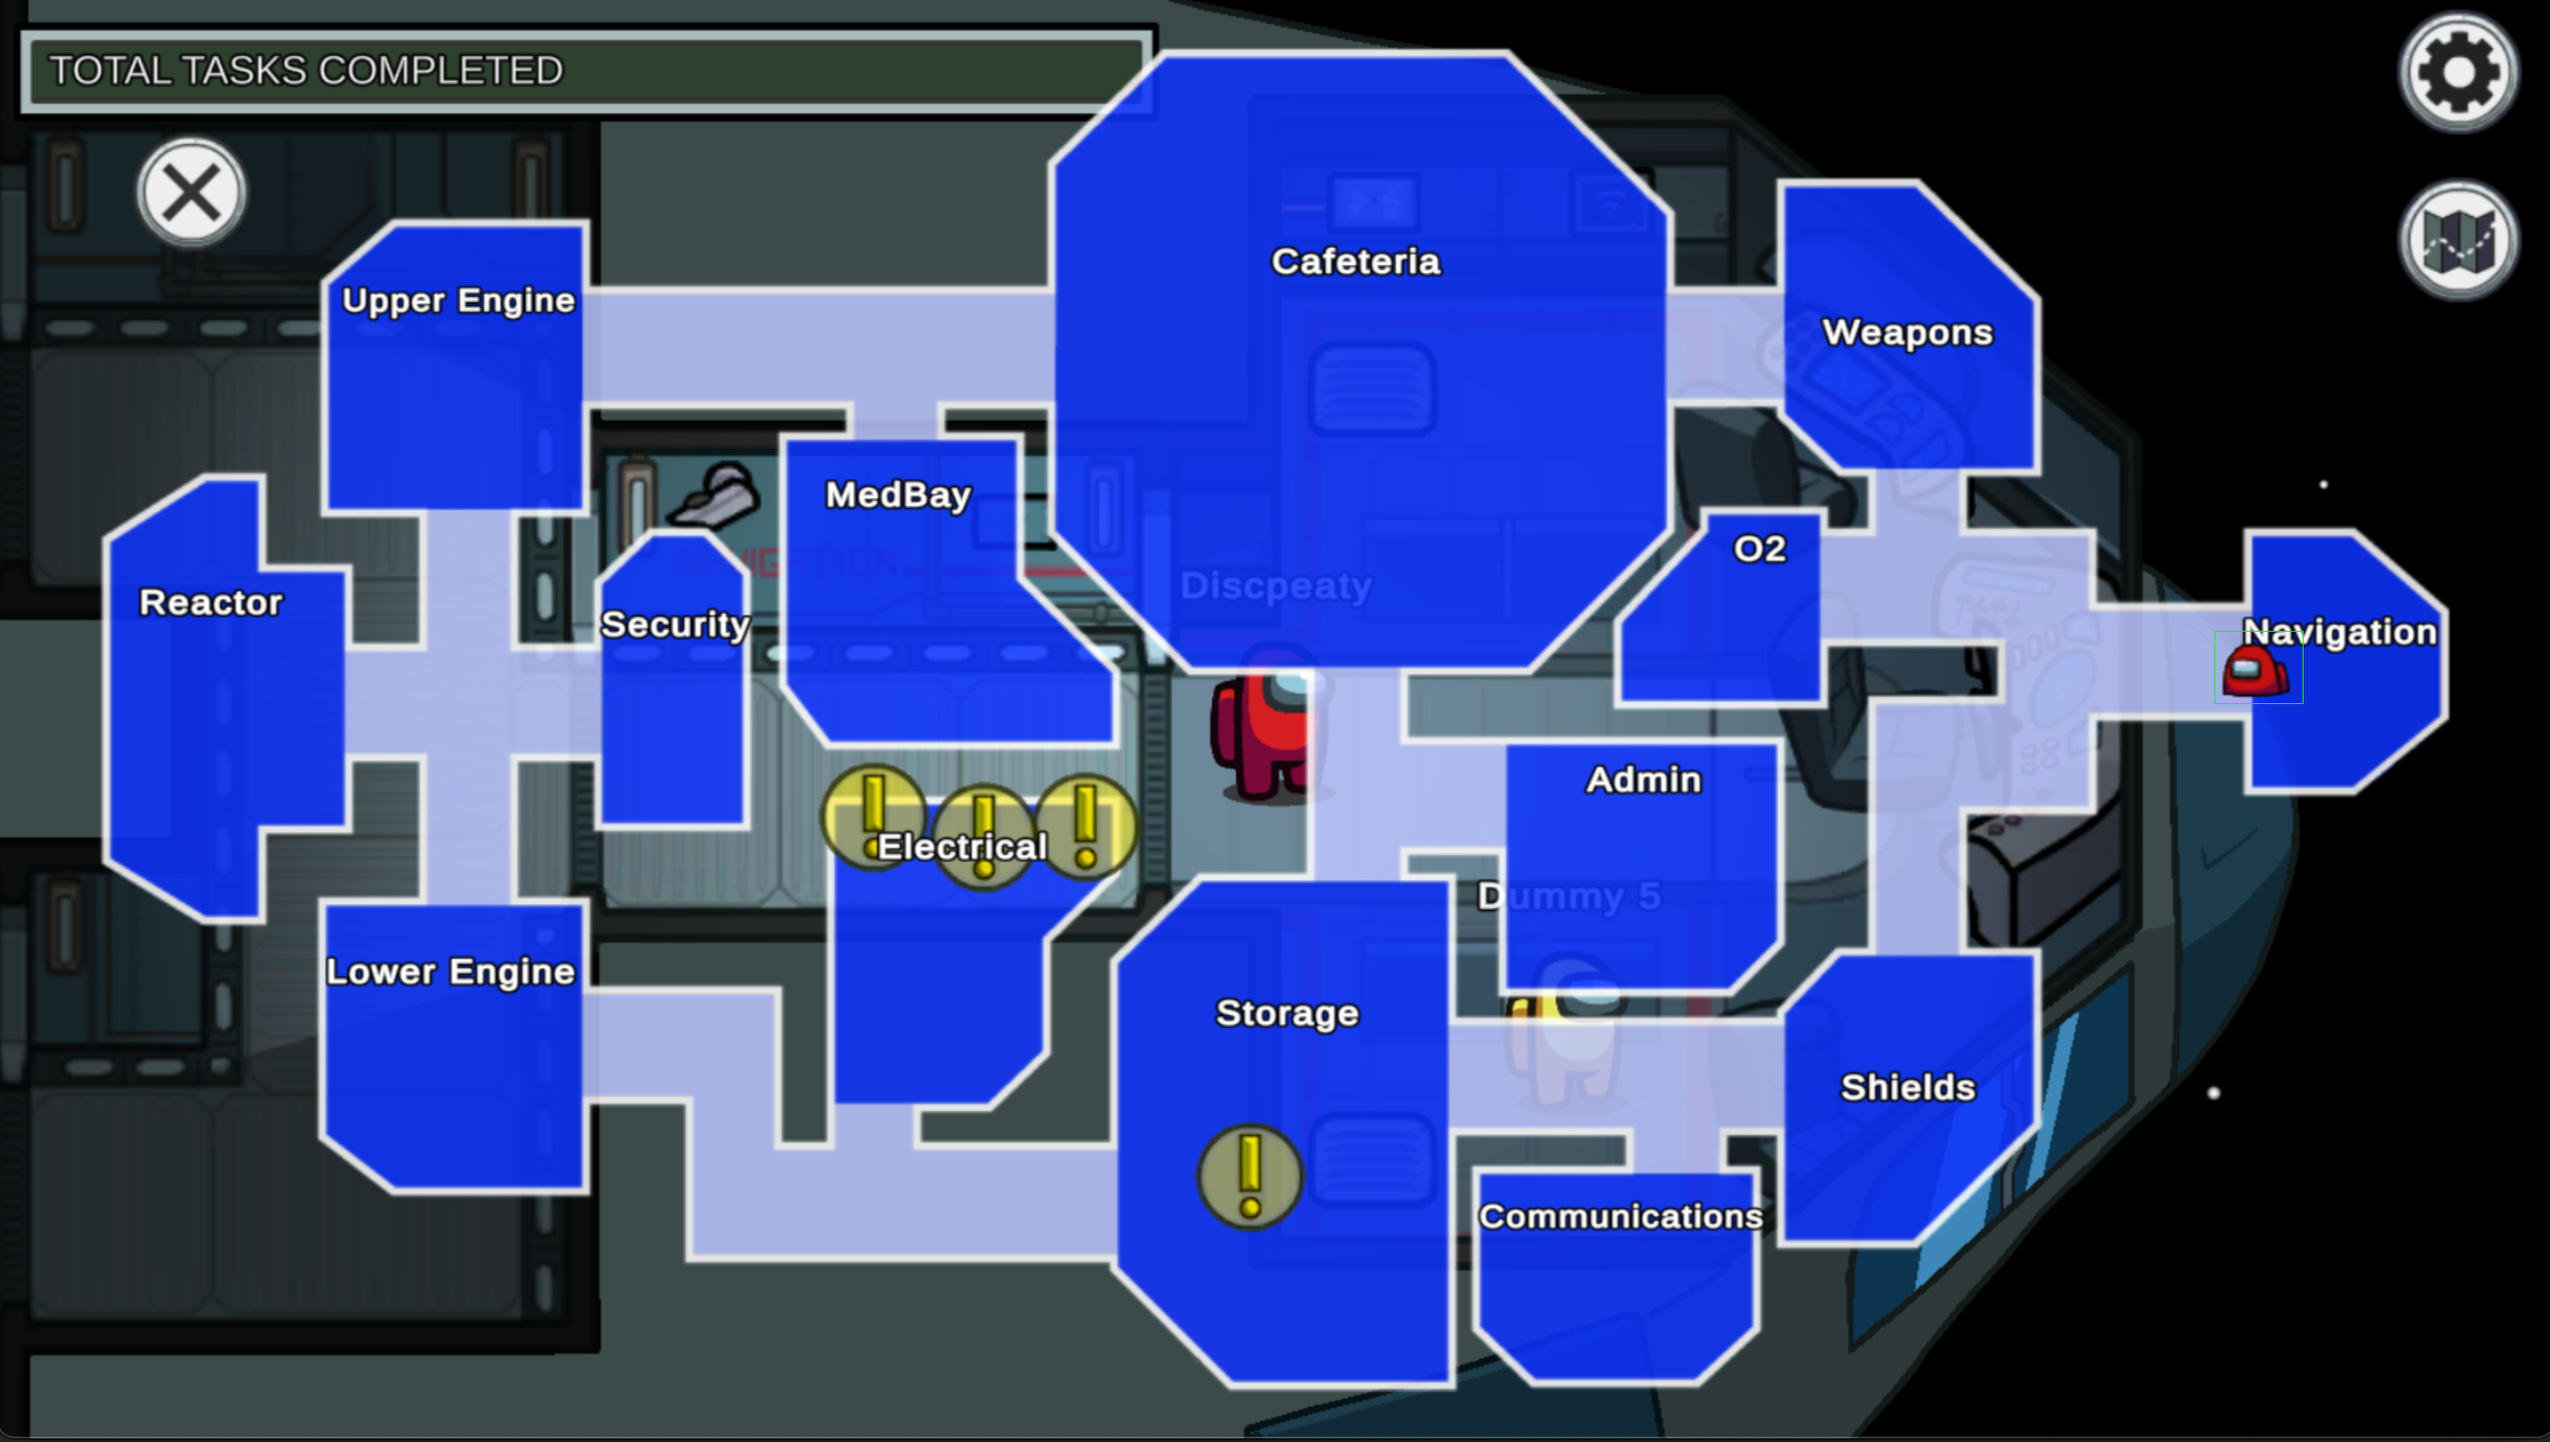
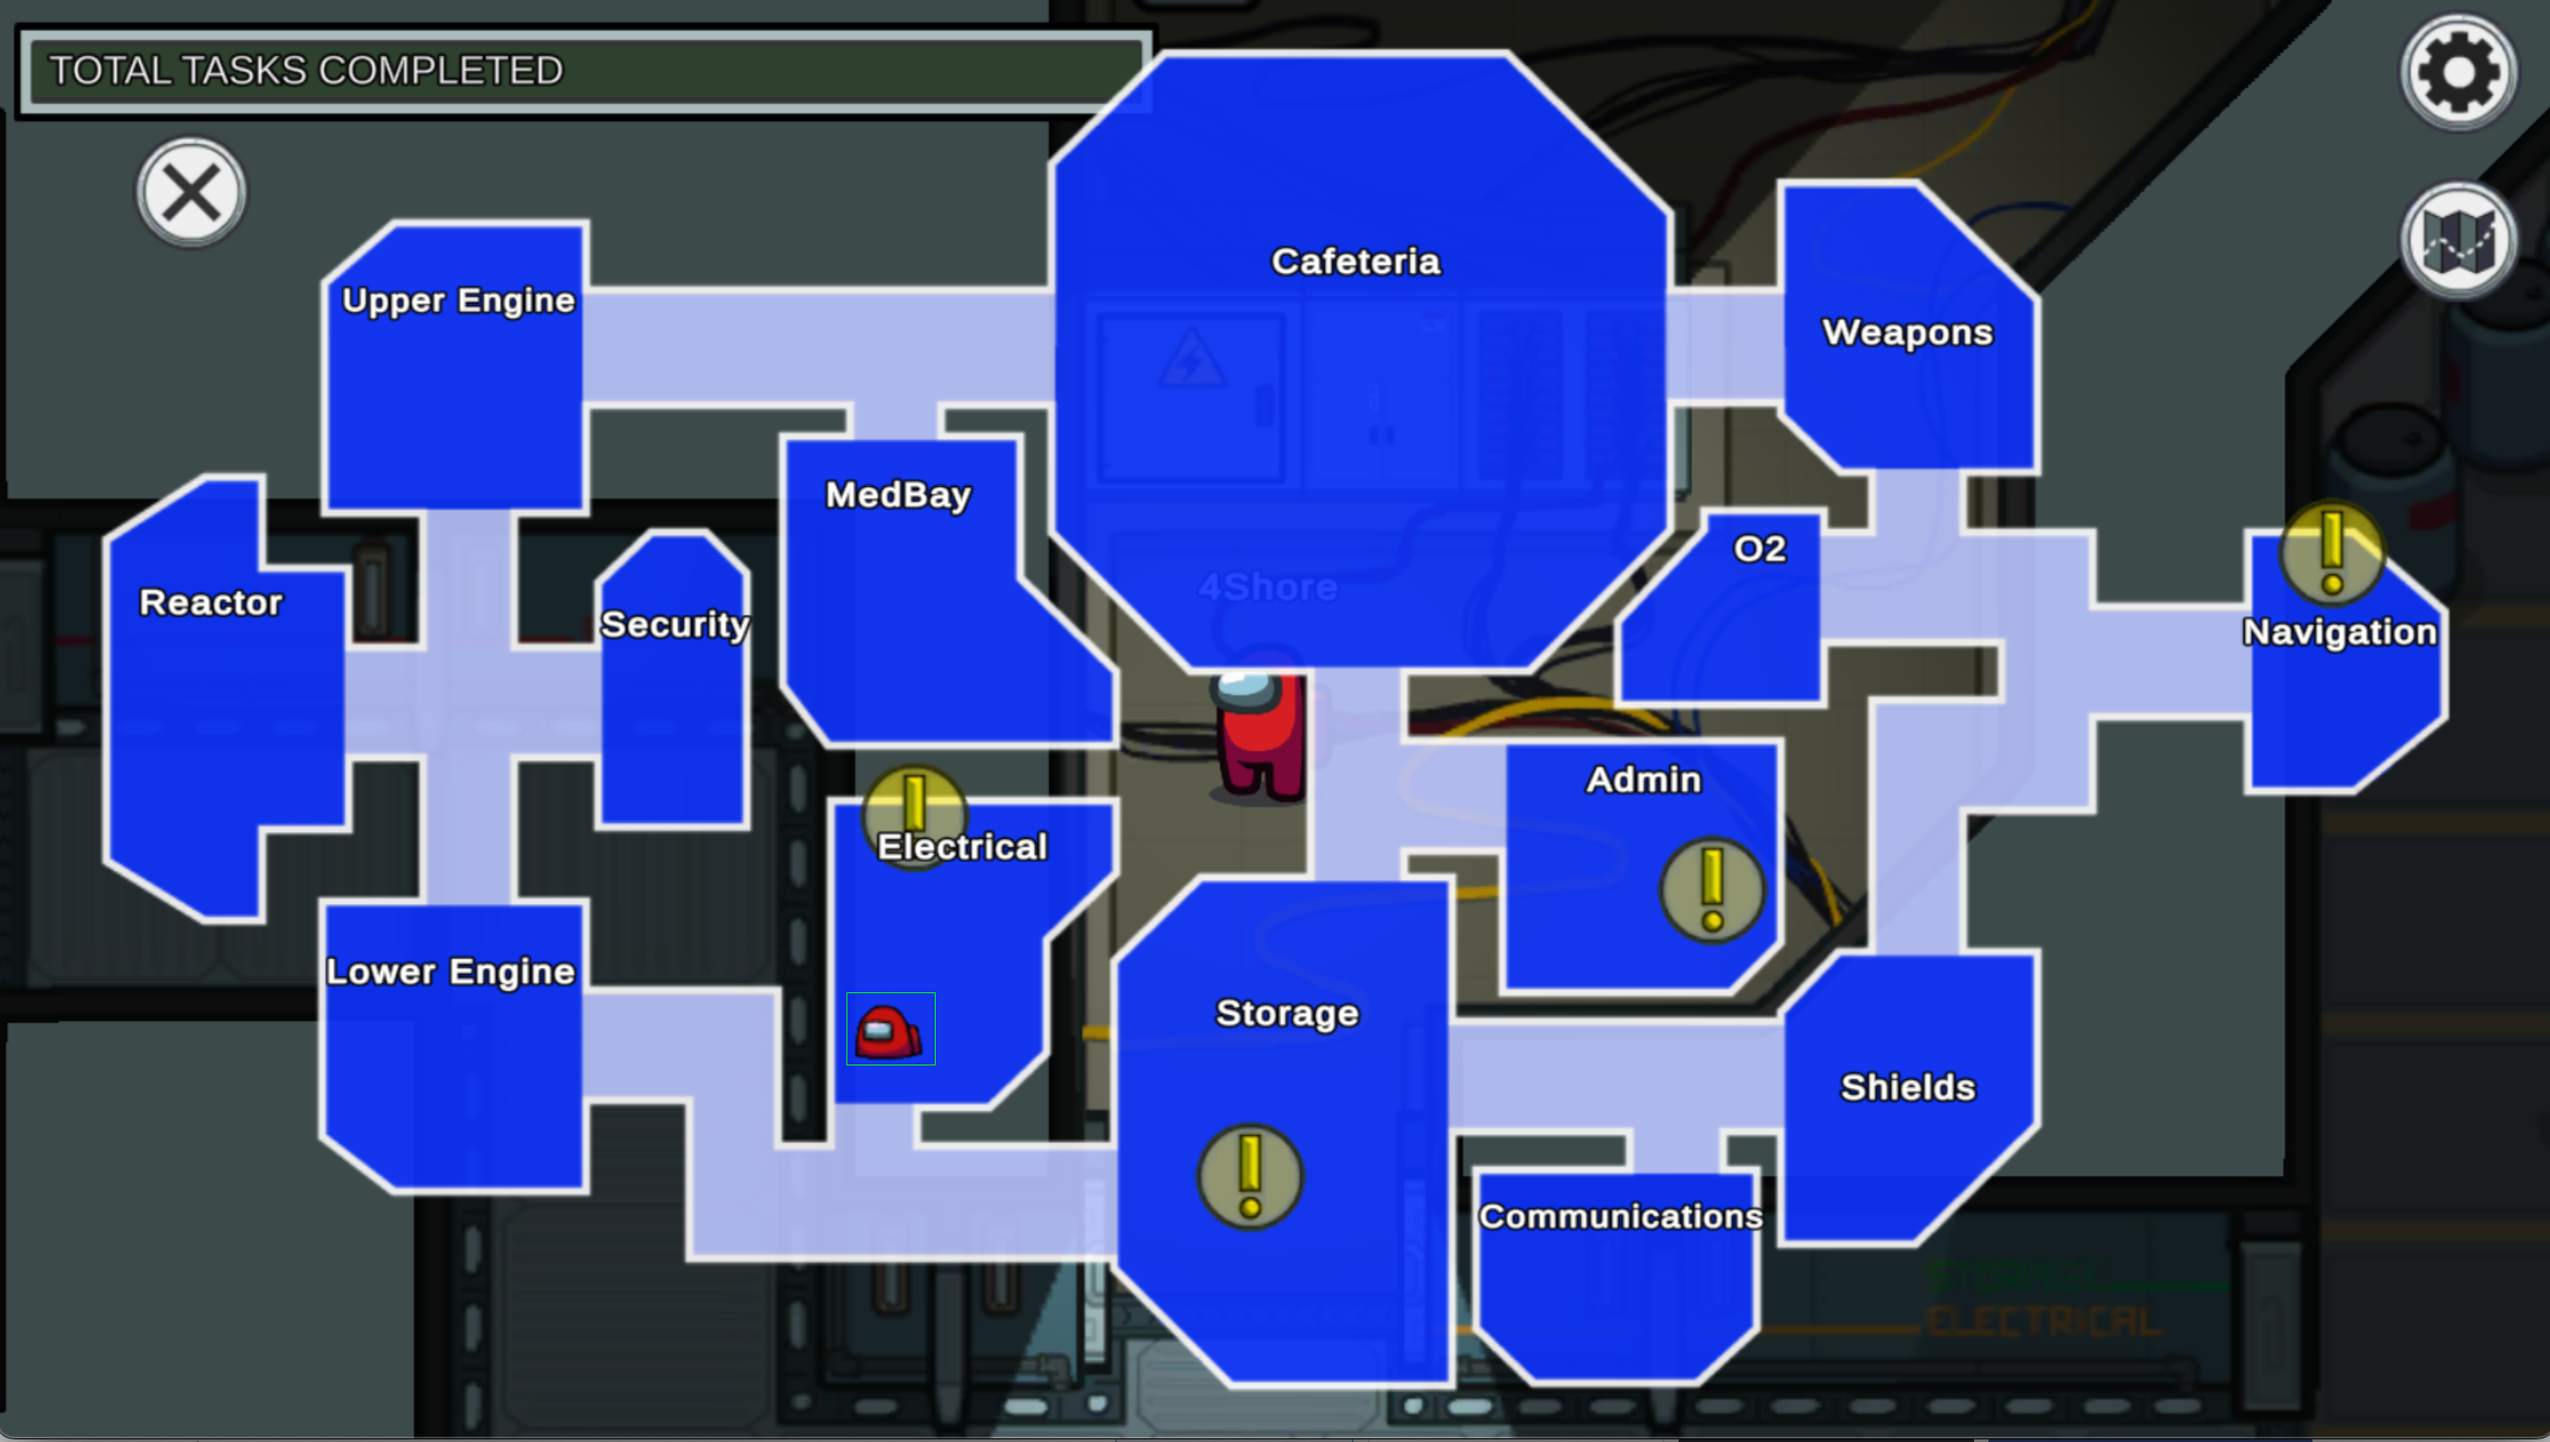
Created Tasks

diff --git a/main.py b/main.py
@@ -7,6 +7,7 @@ from time import sleep
 import math
 from navigation import navigate, get_a_room
 import map_info
+import tasks
 
 
 def grab_screen():
@@ -129,30 +130,36 @@ if __name__ == '__main__':
     region = {'top': 178, 'left': 181, 'width': 1428, 'height': 808}
 
     # sleep(5)
-    location_info = ping_location()
-    current_location = location_info[0]
-    print("Now the location is: " + str(current_location))
-    current_room = location_info[1]
-    print("Current Room: " + str(map_info.convert_room_id(current_room)))
-    # # TODO implement better task system
-    # task = 2
-    # # # waypoints = [(1528, 502), (1846, 404), (2183, 428), (2158, 684), (2301, 682), (2301, 865), (2138, 870), (2141, 1179), (1612, 1210), (1563, 1050), (1298, 1152), (1283, 1350), (835, 1350), (835, 1172), (652, 1172), (611, 1052), (540, 1056), (537, 548), (630, 496), (653, 407), (1361, 402)]
-    # waypoints = navigate(current_room, task)
-    # for i in range(len(waypoints)):
-    #     target_location = waypoints[i]
-    #     print("New Target for Waypoint #" + str(i) + " is: " + str(waypoints[i]) + " and we are at " + str(
-    #         current_location))
-    #     vector_x, vector_y, distance = calculate_vector(current_location, target_location)
-    #     move(vector_x, vector_y, distance)
-    #     if (i % 9) == 0:
-    #         try:
-    #             location_info = ping_location()
-    #             current_location = location_info[0]
-    #             current_room = location_info[1]
-    #         except:
+    # location_info = ping_location()
+    # current_location = location_info[0]
+    # current_room = location_info[1]
+    # print("Now the location is: " + str(current_location))
+    #
+    # # # TODO implement better task system
+    # task = [5, 0]
+    # while task[0] != current_room:
+    #     location_info = ping_location()
+    #     # current_location = location_info[0]
+    #     # print("Now the location is: " + str(current_location))
+    #     current_room = location_info[1]
+    #     print("Current Room: " + str(map_info.convert_room_id(current_room)))
+    #     waypoints = navigate(current_room, task)
+    #     for i in range(len(waypoints)):
+    #         target_location = waypoints[i]
+    #         print("New Target for Waypoint #" + str(i) + " is: " + str(waypoints[i]) + " and we are at " + str(
+    #             current_location))
+    #         vector_x, vector_y, distance = calculate_vector(current_location, target_location)
+    #         move(vector_x, vector_y, distance)
+    #         current_location = target_location
+    #         if (i % 9) == 0:
+    #             try:
+    #                 location_info = ping_location()
+    #                 current_location = location_info[0]
+    #                 current_room = location_info[1]
+    #             except:
+    #                 current_location = waypoints[i]
+    #         else:
     #             current_location = waypoints[i]
-    #     else:
-    #         current_location = waypoints[i]
 
     #     while abs(current_location[0] - target_location[0]) > 50:
     #         location_info  = ping_location()
@@ -179,6 +186,7 @@ if __name__ == '__main__':
     # current_location = location_info[0]
     # current_room = location_info[1]
     # get_a_room(current_location)
-    # while True:
-    #     print('The current pointer position is {0}'.format(
-    #         mouse.position))
+    tasks.trigger_task("accept_power")
+    while True:
+        print('The current pointer position is {0}'.format(
+            mouse.position))

diff --git a/navigation.py b/navigation.py
@@ -1,17 +1,64 @@
 def navigate(current_room, task):
-    locations = [(1524, 515),(1021, 407),1,1,1,1,1]
-
-    # origin = locations[current_room]
-
-    # from Upper engine
-    if current_room == 3:
-        if task == 1:
-            waypoint = [(632, 525), (646, 398), (1316, 401)]
-        elif task == 2:
-            waypoint = [(632, 525), (646, 398), (1014, 399), (1013, 743)]
-
+    if current_room == 1:
+        pass
     elif current_room == 2:
-        waypoint = [(1014, 399), (646, 398), (632, 525)]
+        if task[0] == 3 or 4 or 11 or 12 or 5:
+            waypoint = [(1018, 510), (986, 402), (625, 404)]
+        else:
+            waypoint = [(1018, 510), (1047, 411), (1220, 412)]
+    elif current_room == 3:
+        if task[0] == 1:
+            waypoint = [(632, 525), (646, 398), (1316, 401)]
+        elif task[0] == 2:
+            waypoint = [(632, 525), (646, 398), (1014, 399), (1013, 743)]
+        elif task[0] == 12:
+            pass
+        elif task[0] == 11:
+            pass
+        elif task[0] == 4 or 5 or 6:
+            waypoint = [(631, 517), (541, 529), (537, 1052)]
+    elif current_room == 4:
+        if task[0] == 5:
+            waypoint = [(636, 1049), (637, 1178), (814, 1188), (847, 1346),(988, 1329), (1018, 1189)]
+        pass
+    elif current_room == 5:
+        if task[0] == 4 or 12 or 11 or 2:
+            waypoint = [(989, 1195), (982, 1342), (855, 1336), (834, 1180), (656, 1175)]
+        else:
+            waypoint = [(989, 1195), (982, 1342), (1296, 1346)]
+    elif current_room == 6:
+        pass
+    elif current_room == 7:
+        pass
+    elif current_room == 8:
+        pass
+    elif current_room == 9:
+        pass
+    elif current_room == 10:
+        pass
+    elif current_room == 11:
+        pass
+    elif current_room == 12:
+        pass
+    elif current_room == 13:
+        pass
+    elif current_room == 14:
+        pass
+    elif current_room == 15:
+        pass
+    elif current_room == 16:
+        pass
+    elif current_room == 17:
+        pass
+    elif current_room == 18:
+        pass
+    elif current_room == 19:
+        pass
+    elif current_room == 20:
+        pass
+    elif current_room == 21:
+        pass
+
     return waypoint
 
 

diff --git a/tasks.py b/tasks.py
@@ -1,0 +1,21 @@
+import pyautogui
+import time
+
+def divert_power():
+    for i in [645, 715, 788, 860, 935, 1000, 1075, 1150]:
+        pyautogui.moveTo(i, 765)
+        pyautogui.drag(0, -83, button='left')
+    print("Task Complete")
+
+def accept_power():
+    time.sleep(0.5)
+    pyautogui.click(900, 585, clicks=1)
+
+def trigger_task(task):
+    pyautogui.click(1500, 870, clicks=1)
+
+    if task == "divert_power":
+        divert_power()
+    elif task == "accept_power":
+        accept_power()
+
